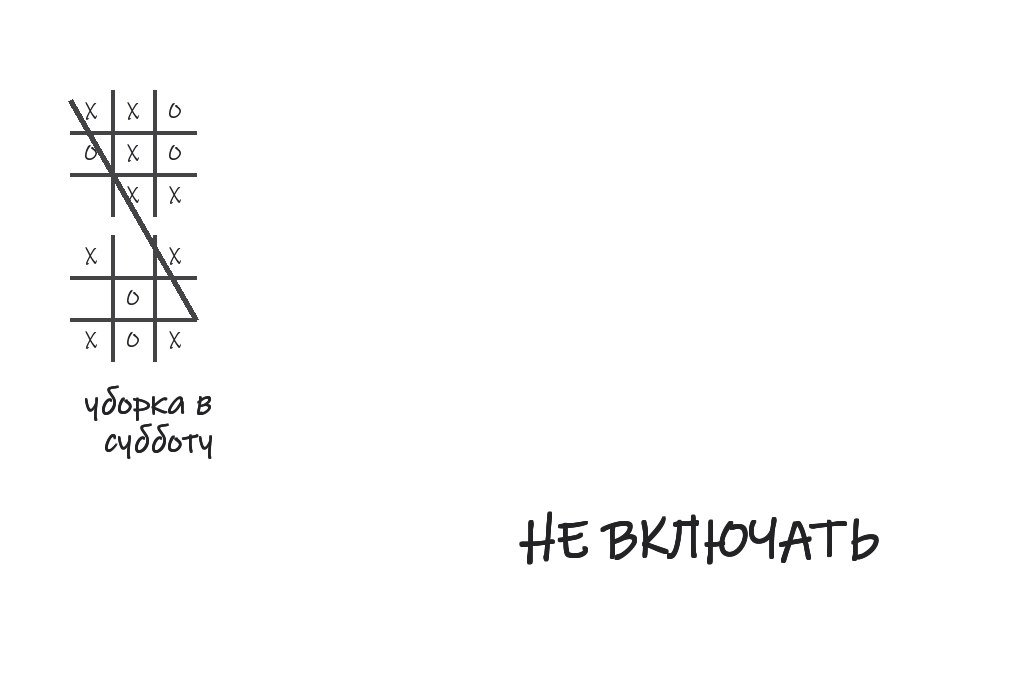
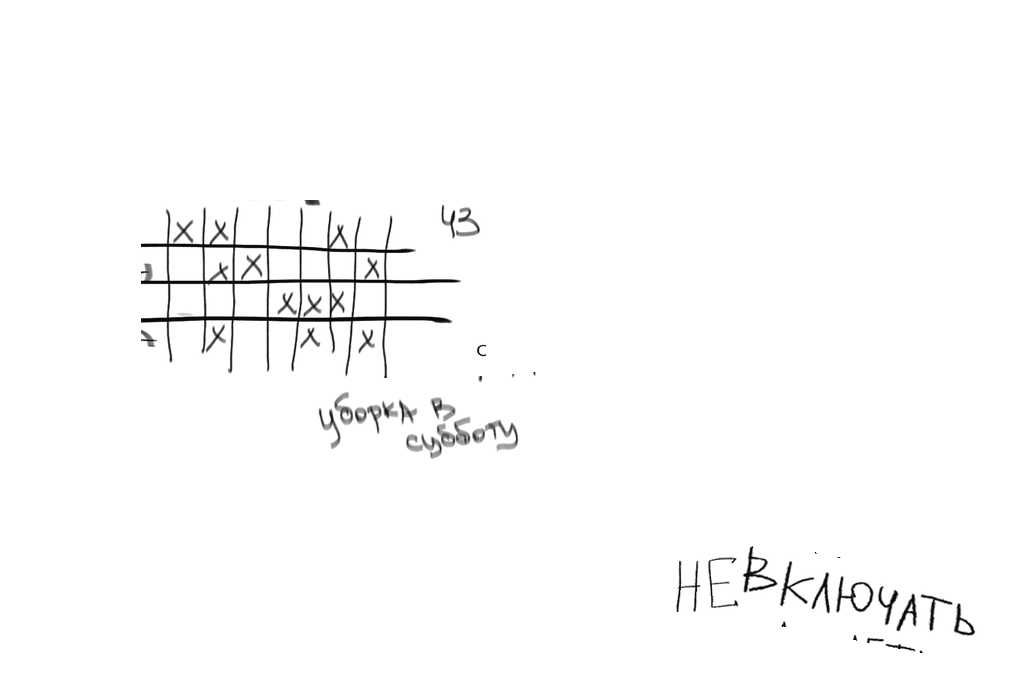
board code and doodles now use the live event's own decal art at the live poses

diff --git a/Blackout/Blackout.cs b/Blackout/Blackout.cs
@@ -1862,13 +1862,14 @@ namespace Blackout
 
             blitMat.SetPass(0);
 
-            // code sits on the viewer's right half of the board like the live one - viewer
-            // right is local -x; digit ~0.14m wide, 0.21m tall, at ~62% board height
-            const float digitW = 0.14f * 0.4334f;
-            const float digitH = 0.21f * 0.4313f;
-            const float startX = -0.11f;
-            const float stepX = -0.17f;
-            const float boardZ = 1.87f;
+            // digits at the live event's own decal poses: DecalHint_Paint_00..03 sit at world
+            // z -335.04..-334.74 (0.10m pitch, viewer's right half), y ~1.795 - converted to
+            // board-local via the same affine as the UV map. Cell aspect 256x341
+            const float digitW = 0.10f * 0.4334f;
+            const float digitH = 0.133f * 0.4313f;
+            const float startX = -0.473f;
+            const float stepX = -0.10f;
+            const float boardZ = 1.702f;
             GL.Begin(GL.QUADS);
             GL.Color(Color.white);
             for (var i = 0; i < _raidCode.Length; i++)
@@ -1876,15 +1877,20 @@ namespace Blackout
                 var digit = _raidCode[i] - '0';
                 var u = 0.4895f - 0.4334f * (startX + stepX * i);
                 var v = 0.9933f - 0.4313f * (boardZ - 0.892f);
-                var au0 = digit / 10f;
-                var au1 = (digit + 1) / 10f;
+                // atlas grid: top row 1,2,3,0; middle 4,5,6; bottom 7,8,9
+                var col = digit == 0 ? 3 : (digit - 1) % 3;
+                var rowIdx = digit == 0 ? 0 : (digit - 1) / 3;
+                var au0 = col / 4f;
+                var au1 = (col + 1) / 4f;
+                var avTop = 1f - rowIdx / 3f;
+                var avBottom = 1f - (rowIdx + 1) / 3f;
 
                 // board art is stored v-flipped (v grows toward the board's bottom), so the
                 // glyph's atlas v is flipped to land upright on the rendered board
-                GL.TexCoord2(au0, 1f); GL.Vertex3(u - digitW / 2f, v - digitH / 2f, 0f);
-                GL.TexCoord2(au1, 1f); GL.Vertex3(u + digitW / 2f, v - digitH / 2f, 0f);
-                GL.TexCoord2(au1, 0f); GL.Vertex3(u + digitW / 2f, v + digitH / 2f, 0f);
-                GL.TexCoord2(au0, 0f); GL.Vertex3(u - digitW / 2f, v + digitH / 2f, 0f);
+                GL.TexCoord2(au0, avTop); GL.Vertex3(u - digitW / 2f, v - digitH / 2f, 0f);
+                GL.TexCoord2(au1, avTop); GL.Vertex3(u + digitW / 2f, v - digitH / 2f, 0f);
+                GL.TexCoord2(au1, avBottom); GL.Vertex3(u + digitW / 2f, v + digitH / 2f, 0f);
+                GL.TexCoord2(au0, avBottom); GL.Vertex3(u - digitW / 2f, v + digitH / 2f, 0f);
             }
             GL.End();
             GL.PopMatrix();
@@ -1894,7 +1900,9 @@ namespace Blackout
             Logger.LogInfo($"[Blackout] code baked onto board texture ({src.width}x{src.height})");
         }
 
-        private Texture2D LoadDigitAtlas() => LoadEmbeddedTexture("Blackout.marker_digits.png");
+        // the live event's own hand-painted digit art: DecalHint_Marker (live sharedassets704),
+        // a 4x3 atlas - top row 1,2,3,0 then 4,5,6 and 7,8,9 (last column scribble patches)
+        private Texture2D LoadDigitAtlas() => LoadEmbeddedTexture("Blackout.hint_marker.png");
 
         private static Texture2D LoadEmbeddedTexture(string resource)
         {

diff --git a/CHANGELOG.md b/CHANGELOG.md
@@ -17,7 +17,7 @@ All notable changes to Blackout are documented here. Format follows [Keep a Chan
 - The live event's amber emergency floods, spawned at the real dark-scene siren positions near the gates, brightness configurable
 - Labs' keycard blinkers and door-status LEDs stay alive and script-driven during the blackout, like the live event keeps them
 - Ambient Level slider - 0 is live-event black, nudge it up for a hint of visibility
-- The admin office whiteboard from the live event, cloned at the real event pose, with a fresh 4-digit emergency code handwritten on it every raid plus the live board's own markings
+- The admin office whiteboard from the live event, cloned at the real event pose, with a fresh 4-digit emergency code every raid - written in the live event's own hand-painted marker digits, next to the real board markings (the cleaning shift roster and notes), all placed at the live decal positions
 - Keycard doors take the emergency code during the blackout: swiping is disabled, the reader opens the live event's keypad (its real panel sprites, layout and bender font, recovered from the live UI files), right code unlocks with the door's own granted beep, wrong code gets the denied beep and the reader's red LED flicker
 ### Changed
 - Real darkness instead of a camera trick: the map's light scene is dropped the way the live dark preset does it, fixtures and emissive surfaces (sky ceiling, lamp glass, LED panels) go physically dark, the map's own ambient lighting channels are taken over at the source, and the screen-wide exposure cut is gone - flashlights now just work, no compensation needed
